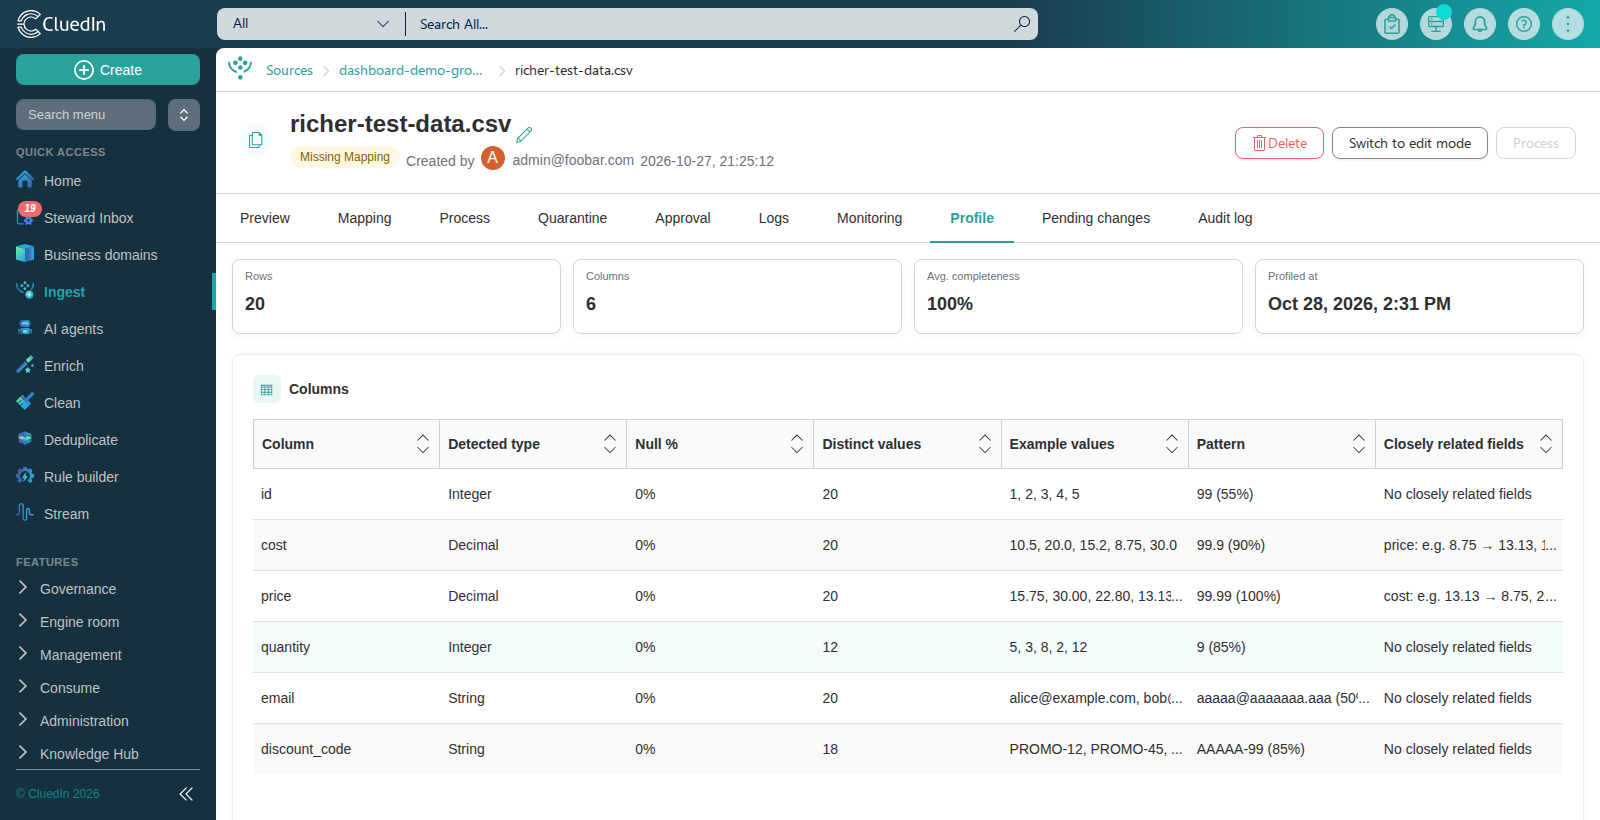
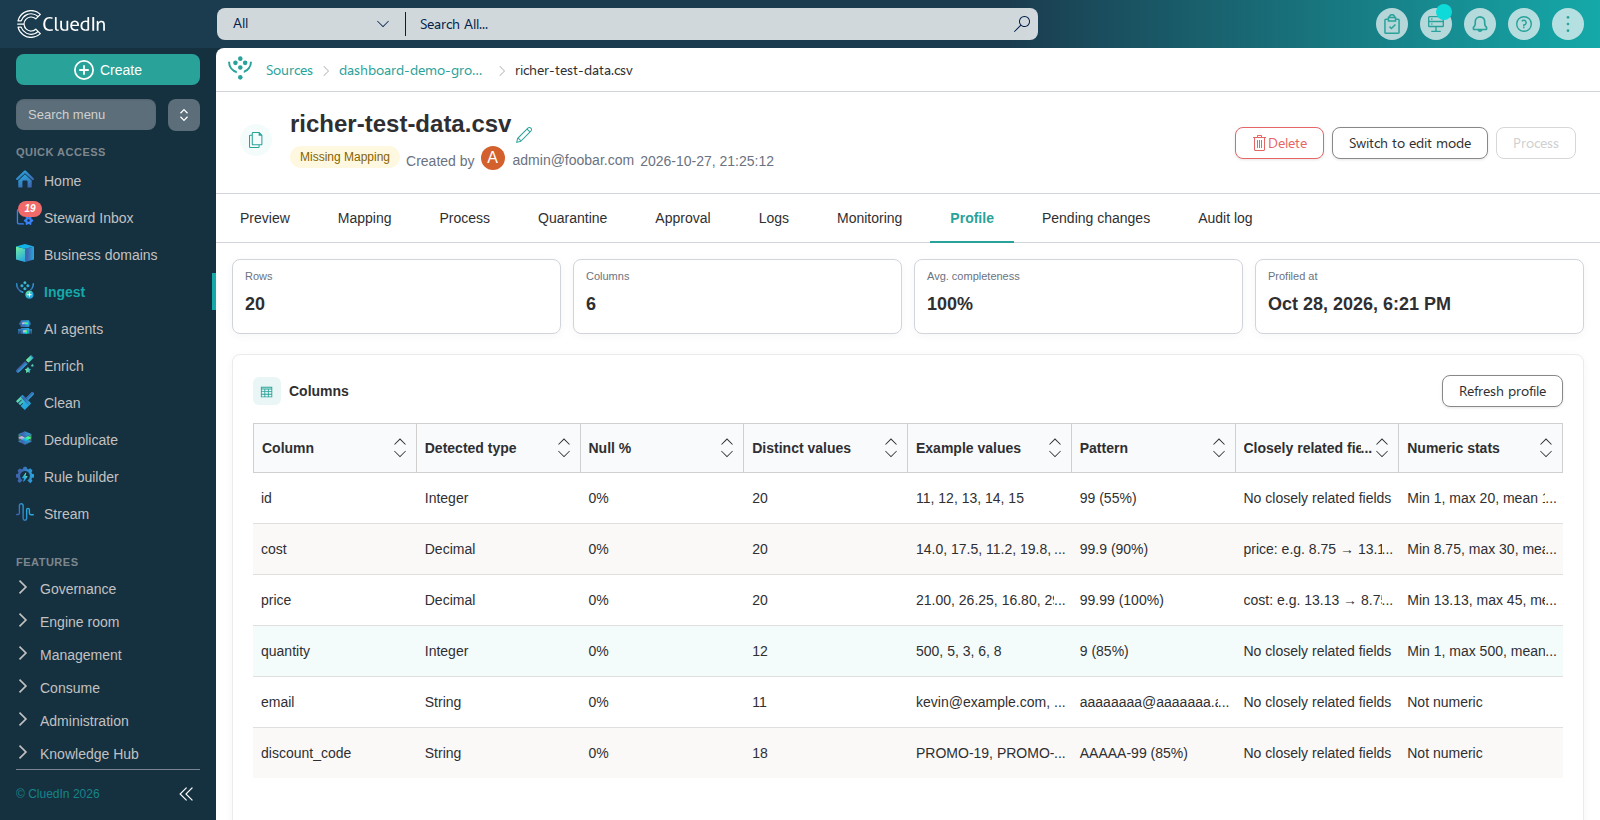
docs: Document the data profile's numeric stats column
The Profile tab now shows each numeric column's min, max, mean and
standard deviation; add it to the column list and refresh the
dashboard screenshot to show it.

diff --git a/docs/02-ingest/processing/025-profile.md b/docs/02-ingest/processing/025-profile.md
@@ -32,7 +32,7 @@ The profile is also structured so that it can be used later to help identify rel
 
 1. Once profiling finishes, the tab shows summary tiles and a table with one row per column.
 
-    ![Profile tab dashboard showing stat tiles for rows, columns, average completeness, and profiled-at time, above a table of the id, cost, price, quantity, email, and discount_code columns, each with its detected type, null percentage, distinct values, example values, pattern, and closely related fields]({{ "/assets/images/integration/additional-operations/profile-dashboard.png" | relative_url }})
+    ![Profile tab dashboard showing stat tiles for rows, columns, average completeness, and profiled-at time, above a table of the id, cost, price, quantity, email, and discount_code columns, each with its detected type, null percentage, distinct values, example values, pattern, closely related fields, and numeric stats]({{ "/assets/images/integration/additional-operations/profile-dashboard.png" | relative_url }})
 
     The summary tiles show the total row count, column count, average completeness across all columns, and when the profile was computed. The table includes the following information for each column:
 
@@ -47,6 +47,8 @@ The profile is also structured so that it can be used later to help identify rel
     - **Pattern** – the column's most common value "shape", with digits collapsed to `9`, uppercase letters to `A`, and lowercase letters to `a`, and the share of the column's values that share it. Only shown when it covers more than a tenth of the column's values; this can reveal structure a column's detected type alone does not, such as a text column that is consistently formatted as an email address or a fixed-width code. A column with nothing to report shows **No repeating pattern**.
 
     - **Closely related fields** – other columns whose values move together with this one, each with a couple of real value pairs so you can see the relationship rather than infer it from a statistic. Only a strong relationship is shown; two columns that merely happen to drift together are left out. A column with nothing to report shows **No closely related fields**.
+
+    - **Numeric stats** – for an Integer or Decimal column, its minimum, maximum, mean, and standard deviation across the column's filled values. A non-numeric column shows **Not numeric**.
 
     Profiling reads at most the first 10,000 rows of a larger data set. When it does, a note under **Columns** says how many of the data set's rows the statistics are based on.
 
